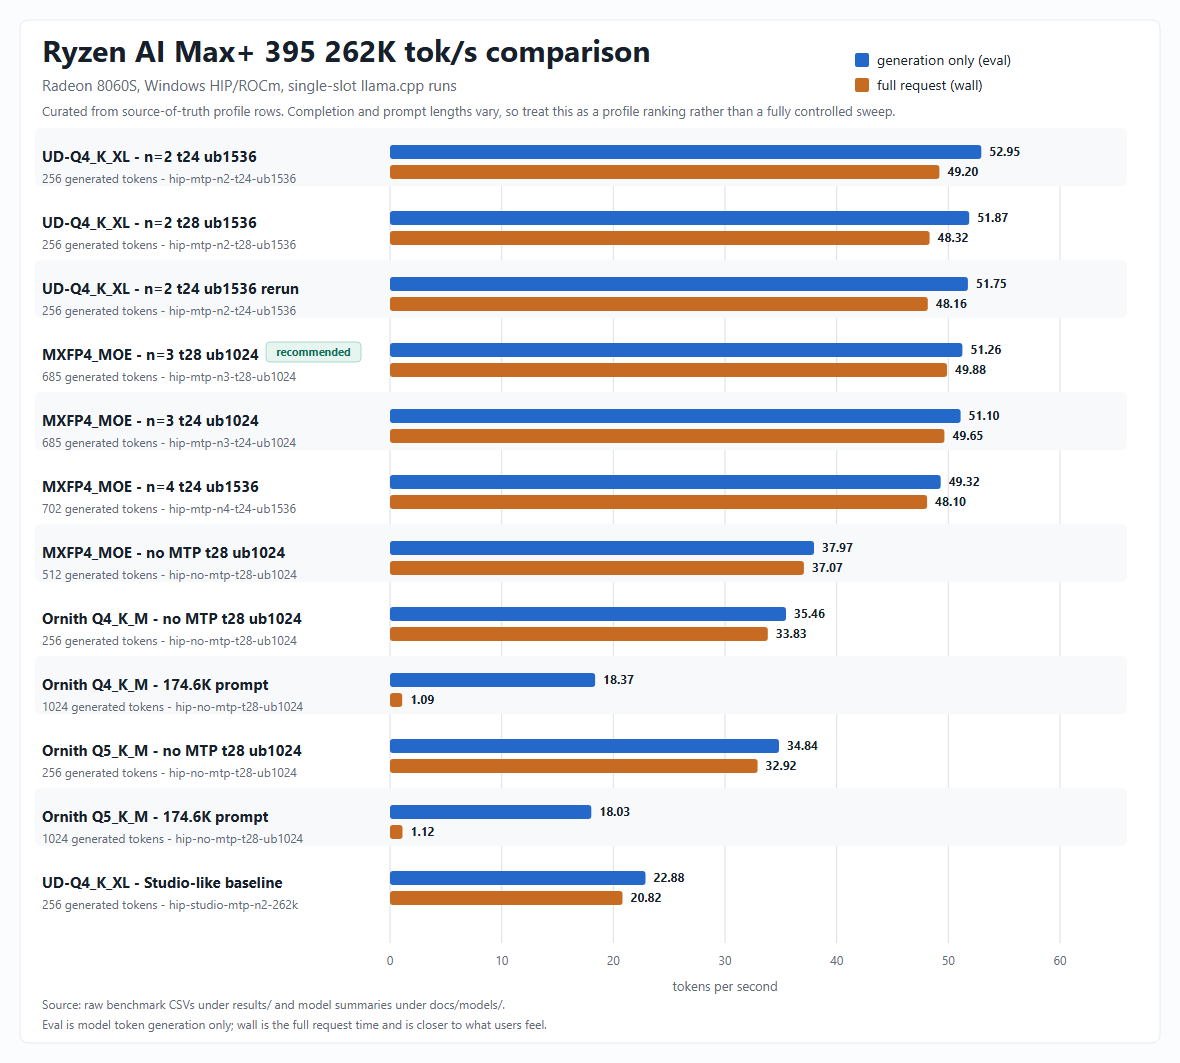
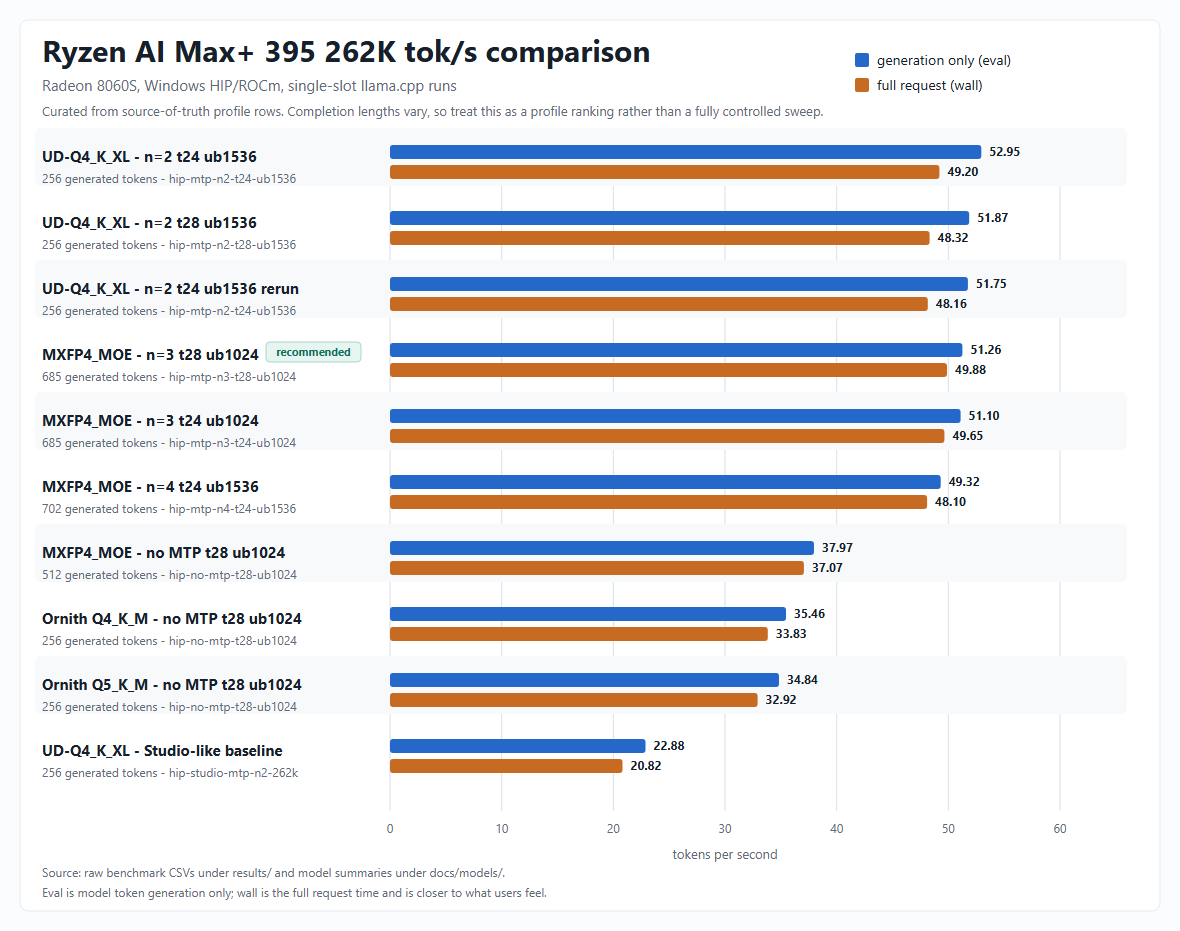
Separate cold prefill from throughput chart

diff --git a/docs/assets/render-qwen36-262k-chart.py b/docs/assets/render-qwen36-262k-chart.py
@@ -25,11 +25,6 @@ def esc(value):
 
 
 def short_label(label):
-    if label.startswith("Ornith 1.0 35B Q4_K_M 174.6K prompt"):
-        return "Ornith Q4_K_M - 174.6K prompt"
-    if label.startswith("Ornith 1.0 35B Q5_K_M 174.6K prompt"):
-        return "Ornith Q5_K_M - 174.6K prompt"
-
     replacements = {
         "UD-Q4_K_XL draft-mtp ": "UD-Q4_K_XL - ",
         "UD-Q4_K_XL Studio-like baseline": "UD-Q4_K_XL - Studio-like baseline",
@@ -77,7 +72,7 @@ def render():
         f'<rect x="20" y="20" width="{width - 40}" height="{card_h}" rx="8" fill="{CARD}" stroke="{BORDER}"/>',
         f'<text x="42" y="62" font-family="{FONT}" font-size="30" font-weight="700" fill="{TEXT}">Ryzen AI Max+ 395 262K tok/s comparison</text>',
         f'<text x="42" y="91" font-family="{FONT}" font-size="15" fill="{MUTED}">Radeon 8060S, Windows HIP/ROCm, single-slot llama.cpp runs</text>',
-        f'<text x="42" y="116" font-family="{FONT}" font-size="13" fill="{MUTED}">Curated from source-of-truth profile rows. Completion and prompt lengths vary, so treat this as a profile ranking rather than a fully controlled sweep.</text>',
+        f'<text x="42" y="116" font-family="{FONT}" font-size="13" fill="{MUTED}">Curated from source-of-truth profile rows. Completion lengths vary, so treat this as a profile ranking rather than a fully controlled sweep.</text>',
         f'<rect x="855" y="53" width="14" height="14" rx="2" fill="{EVAL}"/>',
         f'<text x="877" y="65" font-family="{FONT}" font-size="14" fill="{TEXT}">generation only (eval)</text>',
         f'<rect x="855" y="78" width="14" height="14" rx="2" fill="{WALL}"/>',

diff --git a/README.md b/README.md
@@ -2,7 +2,7 @@
 
 ![Ryzen AI Max+ 395 262K tok/s comparison](docs/assets/qwen36-262k-tok-s.svg)
 
-In the chart, `eval` means model generation speed only, while `wall` means full request speed and is closer to what a user feels. Chart source rows are in `docs/assets/qwen36-262k-tok-s.csv`. Completion and prompt lengths vary across the selected source-of-truth runs, so read it as a profile ranking rather than a fully controlled sweep.
+In the chart, `eval` means model generation speed only, while `wall` means full request speed and is closer to what a user feels. Chart source rows are in `docs/assets/qwen36-262k-tok-s.csv`. Completion lengths vary across the selected source-of-truth runs, so read it as a profile ranking rather than a fully controlled sweep.
 
 Benchmarks and launch profiles for running large GGUF models on AMD Ryzen AI Max+ 395 / Radeon 8060S Strix Halo systems.
 
@@ -141,7 +141,12 @@ powershell -NoProfile -ExecutionPolicy Bypass -File .\scripts\localai\ornith-1.0
   -TargetPromptTokens 200000
 ```
 
-On Ornith Q4_K_M, that copied fixture counted as `174588` prompt tokens and measured `197.44 prompt tok/s`, `18.37 eval tok/s`, and `1.09 wall tok/s` for 1024 generated tokens. Ornith Q5_K_M on the same fixture measured `202.92 prompt tok/s`, `18.03 eval tok/s`, and `1.12 wall tok/s`.
+Cold 174K-context prefill note: this sends the entire fixture in one request. It is useful for measuring prefill speed and generation speed after the cache is already deep, but it should not be compared to normal tok/s chart rows as steady interactive coding throughput. In a coding session, context usually grows turn by turn and prompt cache reuse changes what the user feels.
+
+| Quant | Prompt tokens | Cold prefill | Prompt eval | Generation at 174K ctx | Full one-shot latency |
+| --- | ---: | ---: | ---: | ---: | ---: |
+| Q4_K_M | 174588 | 884.3s | 197.44 tok/s | 18.37 tok/s | 940.2s |
+| Q5_K_M | 174588 | 860.4s | 202.92 tok/s | 18.03 tok/s | 917.4s |
 
 Download Ornith 1.0 35B Q5_K_M:
 

diff --git a/scripts/README.md b/scripts/README.md
@@ -40,4 +40,4 @@ The Ornith downloader prefers `hf` or `huggingface-cli` when installed. If neith
 `ornith-1.0-35b-Q5_K_M.gguf` is about `23.0 GiB`.
 `ornith-1.0-35b-Q4_K_M.gguf` is smaller and is the better apples-to-apples comparison when the rest of the local GGUF rows are Q4-class.
 
-The Ornith benchmark scripts accept `-PromptFile`, `-PromptStyle`, and `-TargetPromptTokens` for long-context baselines. The copied `book-context-200k.txt` fixture is a target-200K prompt, but Ornith Q4_K_M and Q5_K_M counted it as `174588` prompt tokens in the 262K benchmark runs.
+The Ornith benchmark scripts accept `-PromptFile`, `-PromptStyle`, and `-TargetPromptTokens` for long-context baselines. The copied `book-context-200k.txt` fixture is a target-200K prompt, but Ornith Q4_K_M and Q5_K_M counted it as `174588` prompt tokens in the 262K benchmark runs. Treat the full-request wall time from that run as cold one-shot prefill latency, not steady interactive coding throughput.